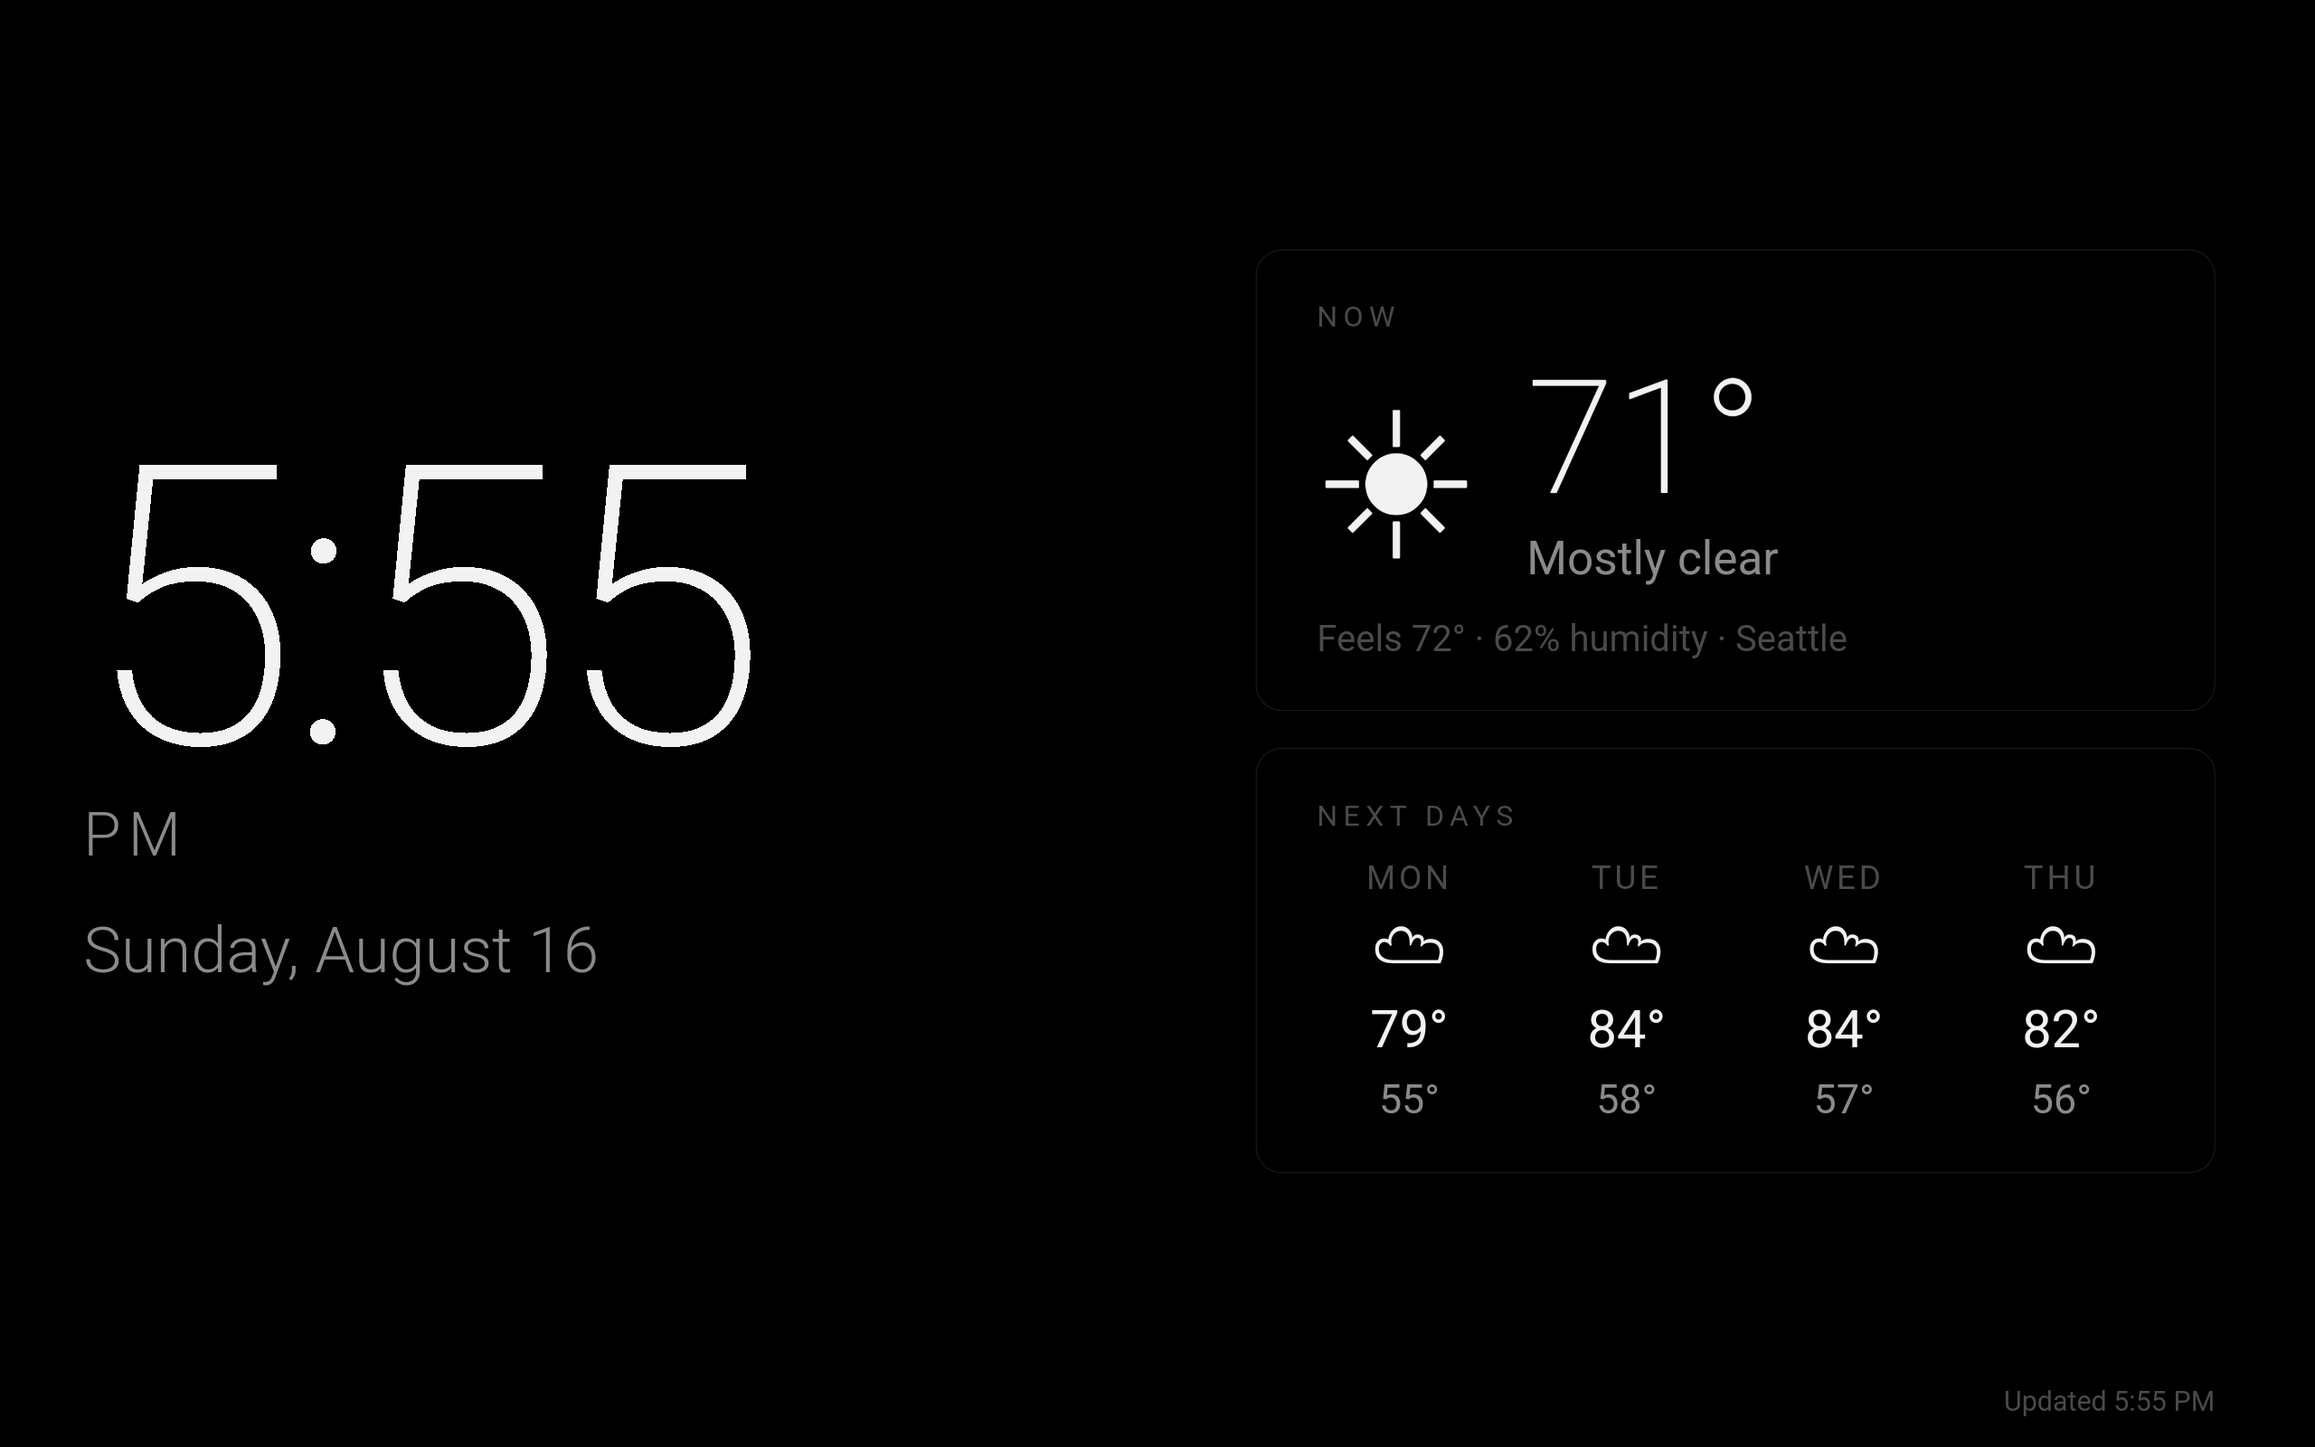
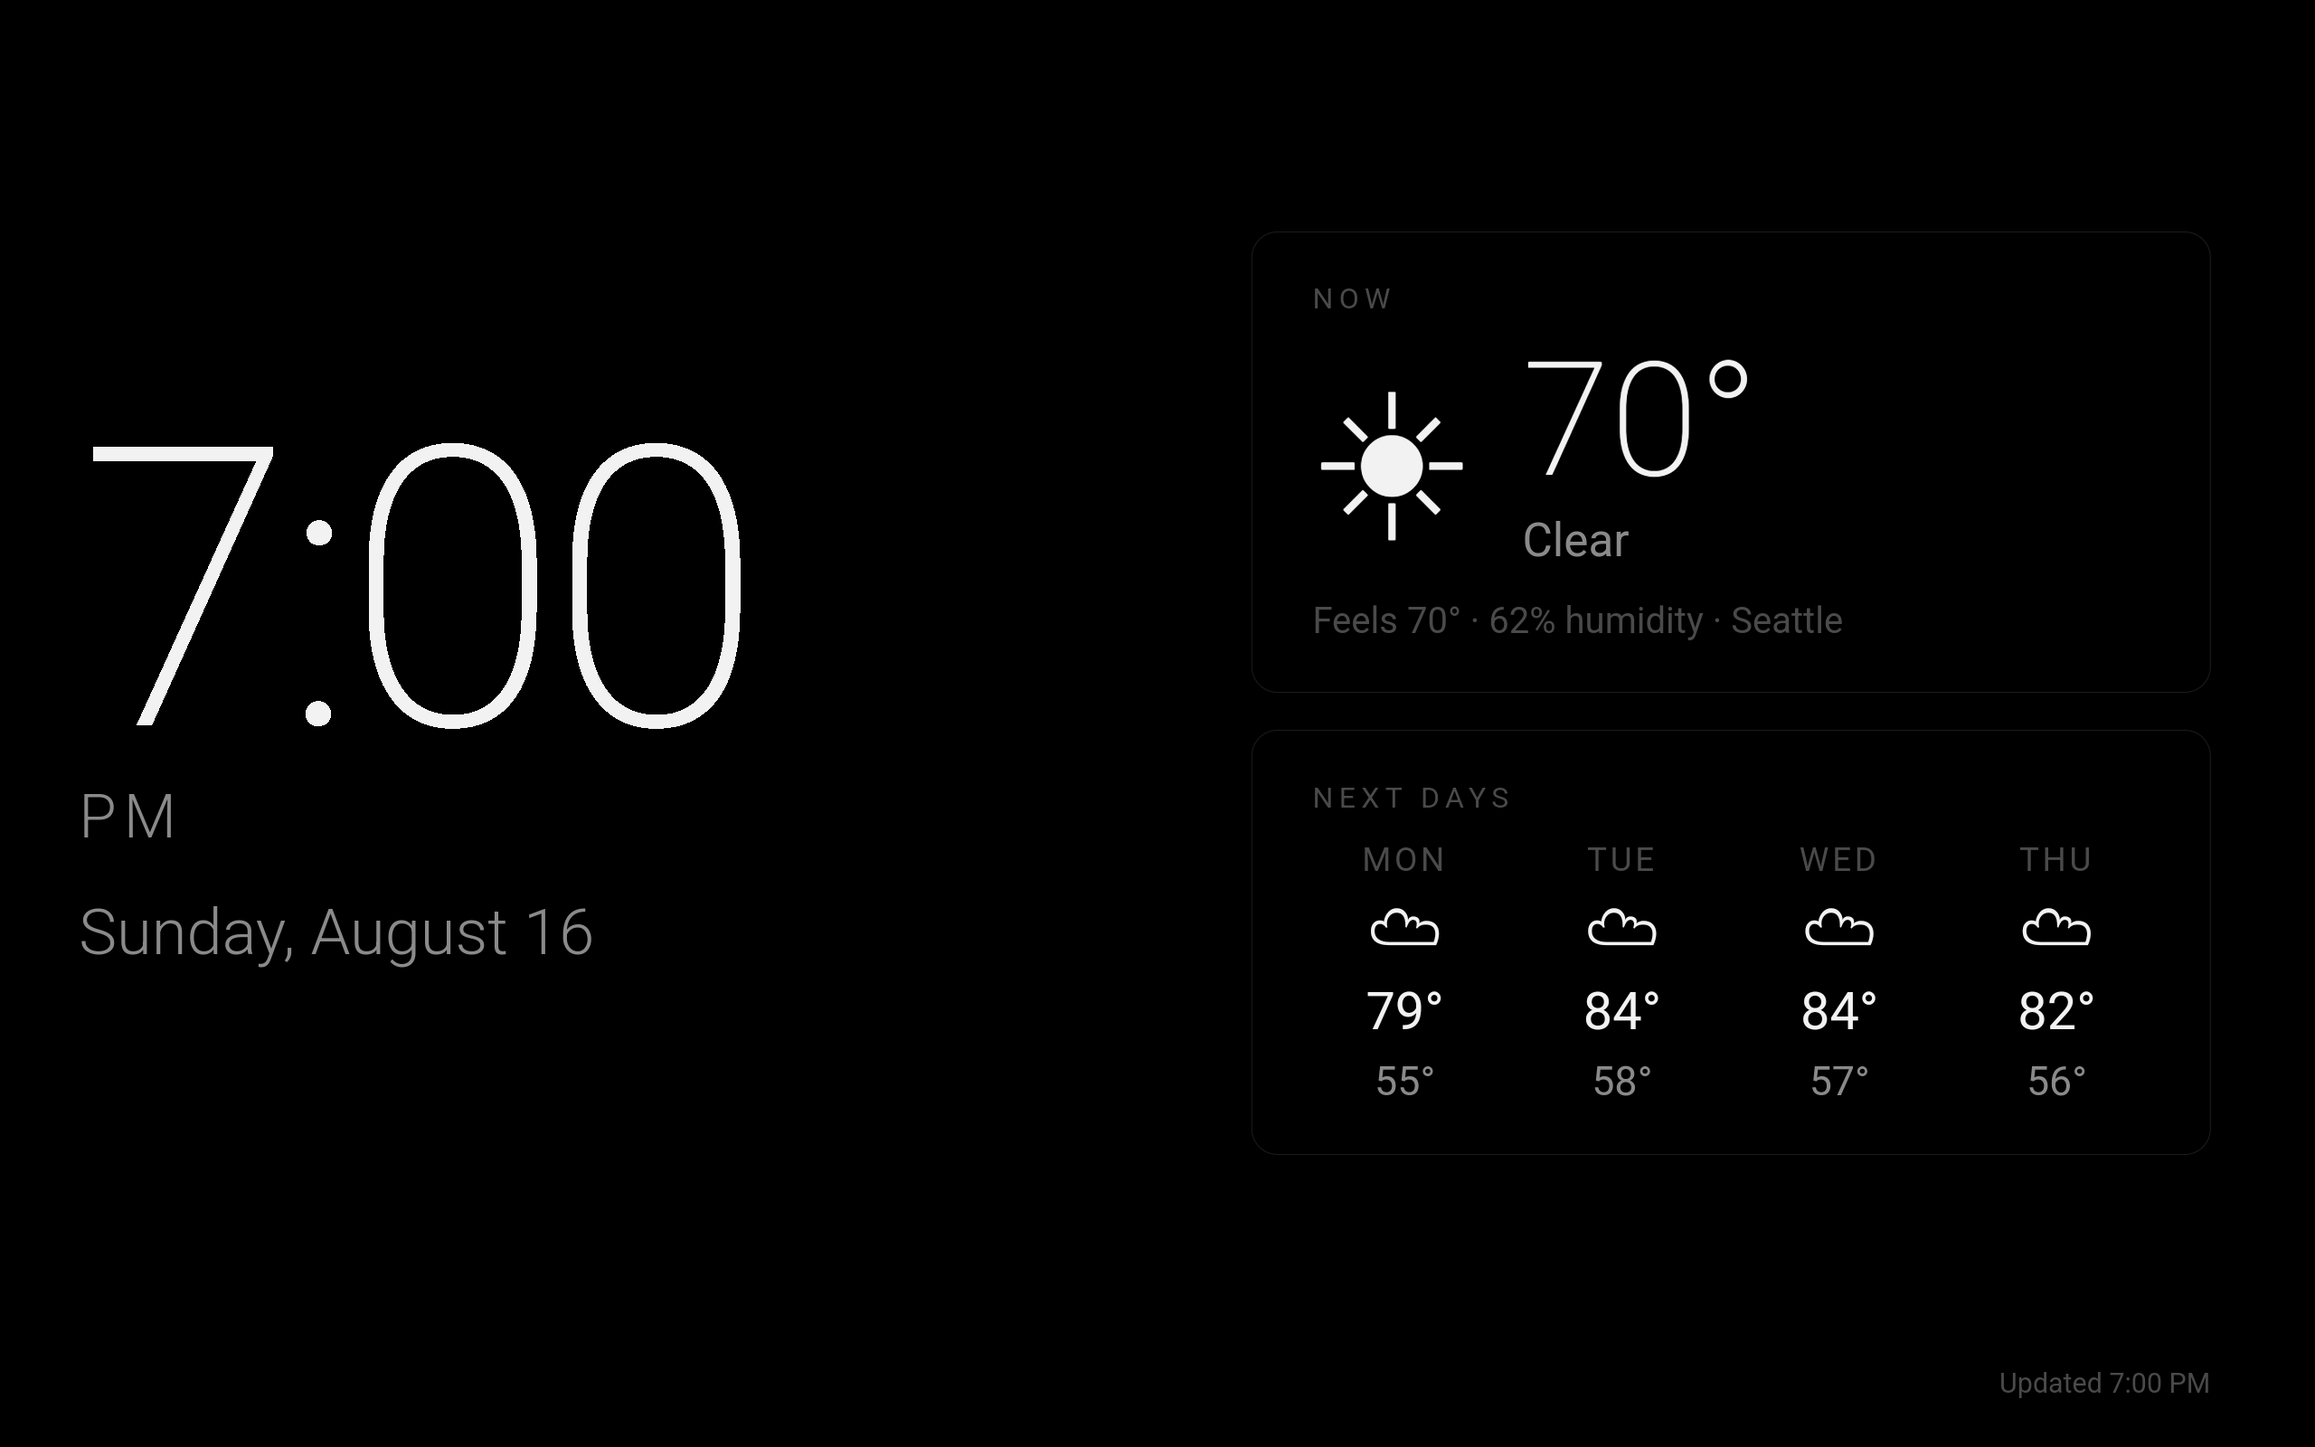
Inky OLED: Home Assistant sensors + auto-start; simplify patch D
- New "sensors" plugin reads entity states from the Home Assistant REST
  API, so the panel can show your own ESP32/MQTT room sensors instead of
  only outdoor weather. Hides itself when HA is not configured rather
  than rendering an empty card.
- BootReceiver relaunches the dashboard after a reboot. Documents the
  Android 10+ background-activity-start restriction honestly, and the
  SYSTEM_ALERT_WINDOW grant that works around it.
- Patch D reduced to an optional -Mode switch, with a README explaining
  it is usually unnecessary: the app already holds FLAG_KEEP_SCREEN_ON
  while foreground and is locked landscape, so normal sleep and rotation
  return automatically in video apps. Setting stay_on_while_plugged_in
  globally is worse - it forces the screen on inside every app, which is
  how AMOLED burn-in happens.

Verified on the 2560x1600 emulator: no regression, sensors card hidden
when disabled, boot receiver registered.

diff --git a/inky-oled/assets/app.js b/inky-oled/assets/app.js
@@ -148,6 +148,83 @@
     }
   };
 
+  /* ---------------- plugin: Home Assistant sensors ----------------
+     Reads entity states from the HA REST API, so the panel can show your own room
+     sensors (ESP32/MQTT nodes) rather than only outdoor weather. */
+  var sensorsPlugin = {
+    name: "sensors",
+    init: function () {
+      var ha = C.homeAssistant || {};
+      if (!ha.enabled) return;
+      if (!ha.baseUrl || !ha.token) {
+        $("sensors").innerHTML =
+          '<div class="sensor-empty">Set baseUrl and token in config.js</div>';
+        return;
+      }
+      this.fetchAll();
+      setInterval(this.fetchAll.bind(this), (ha.refreshSeconds || 60) * 1000);
+    },
+    fetchAll: function () {
+      var ha = C.homeAssistant;
+      var base = ha.baseUrl.replace(/\/+$/, "");
+      var list = ha.entities || [];
+      var self = this;
+
+      Promise.all(list.map(function (ent) {
+        return fetch(base + "/api/states/" + encodeURIComponent(ent.id), {
+          headers: {
+            "Authorization": "Bearer " + ha.token,
+            "Content-Type": "application/json"
+          },
+          cache: "no-store"
+        })
+          .then(function (r) {
+            if (!r.ok) throw new Error("HTTP " + r.status);
+            return r.json();
+          })
+          .then(function (j) {
+            return { ok: true, cfg: ent, state: j.state, attrs: j.attributes || {} };
+          })
+          .catch(function (e) {
+            return { ok: false, cfg: ent, err: e.message };
+          });
+      })).then(self.render.bind(self));
+    },
+    render: function (results) {
+      var box = $("sensors");
+      if (!box) return;
+      box.innerHTML = "";
+
+      var anyFail = false;
+      results.forEach(function (r) {
+        var el = document.createElement("div");
+        el.className = "sensor";
+
+        var label = r.cfg.label || r.cfg.id;
+        var value, unit = "";
+
+        if (!r.ok) {
+          anyFail = true;
+          value = "--";
+        } else if (r.state === "unavailable" || r.state === "unknown") {
+          value = "--";
+        } else {
+          var n = parseFloat(r.state);
+          value = isNaN(n) ? r.state : Math.round(n * 10) / 10;
+          unit = r.cfg.unit || r.attrs.unit_of_measurement || "";
+        }
+
+        el.innerHTML =
+          '<div class="sensor-label">' + label + "</div>" +
+          '<div class="sensor-value">' + value +
+          '<span class="sensor-unit">' + unit + "</span></div>";
+        box.appendChild(el);
+      });
+
+      if (anyFail) setStatus("Home Assistant unreachable - check baseUrl/token", true);
+    }
+  };
+
   /* ---------------- burn-in drift ----------------
      This panel is AMOLED. A dashboard that never moves will permanently ghost.
      Drift the whole layout on a slow cycle so nothing sits on the same pixels. */
@@ -169,10 +246,14 @@
   }
 
   /* ---------------- boot ---------------- */
-  var REGISTRY = { clock: clockPlugin, weather: weatherPlugin, forecast: null };
-
   function boot() {
-    var wanted = C.plugins || ["clock", "weather", "forecast"];
+    var wanted = (C.plugins || ["clock", "weather", "forecast"]).slice();
+
+    // "sensors" only makes sense with Home Assistant configured — otherwise the card
+    // would render as an empty box. Drop it rather than show nothing.
+    if (wanted.indexOf("sensors") !== -1 && !(C.homeAssistant && C.homeAssistant.enabled)) {
+      wanted.splice(wanted.indexOf("sensors"), 1);
+    }
 
     // hide any card whose plugin is not enabled
     Array.prototype.forEach.call(document.querySelectorAll("[data-plugin]"), function (node) {
@@ -182,6 +263,7 @@
     if (wanted.indexOf("clock") !== -1) clockPlugin.init();
     // forecast is rendered by the weather fetch, so it only needs the weather plugin running
     if (wanted.indexOf("weather") !== -1 || wanted.indexOf("forecast") !== -1) weatherPlugin.init();
+    if (wanted.indexOf("sensors") !== -1) sensorsPlugin.init();
 
     startBurnInDrift();
   }

diff --git a/inky-oled/assets/config.js b/inky-oled/assets/config.js
@@ -24,7 +24,30 @@ window.CONFIG = {
 
   // ---- PLUGINS --------------------------------------------
   // Turn cards on/off. Order here is the order they render.
+  // Add "sensors" once Home Assistant is configured below.
   plugins: ["clock", "weather", "forecast"],
+
+  // ---- HOME ASSISTANT (optional) --------------------------
+  // Shows your own sensors — e.g. the ESP32 room nodes — instead of only outdoor weather.
+  //
+  // token: create a Long-Lived Access Token in HA under
+  //        Profile -> Security -> Long-Lived Access Tokens.
+  //
+  // !! The token grants full API access to your Home Assistant. It is stored in plain
+  //    text inside the APK. Only sideload this build onto your own device, and never
+  //    commit a real token — the repo's pre-commit scanner will block it anyway.
+  homeAssistant: {
+    enabled: false,
+    baseUrl: "http://homeassistant.local:8123",  // or http://<ha-ip>:8123
+    token: "",                                    // paste your long-lived token
+    refreshSeconds: 60,
+    // Each entry becomes a tile. Find entity ids in HA under Developer Tools -> States.
+    entities: [
+      { id: "sensor.living_room_temperature", label: "Living room", unit: "°F" },
+      { id: "sensor.bedroom_temperature",     label: "Bedroom",     unit: "°F" },
+      { id: "sensor.outside_temperature",     label: "Outside",     unit: "°F" },
+    ],
+  },
 
   // ---- REFRESH --------------------------------------------
   weatherRefreshMinutes: 15,

diff --git a/inky-oled/assets/style.css b/inky-oled/assets/style.css
@@ -124,6 +124,30 @@ html, body {
 .fc-hi   { font-size: 3.6vh; font-variant-numeric: tabular-nums; }
 .fc-lo   { font-size: 2.8vh; color: var(--dim); font-variant-numeric: tabular-nums; }
 
+/* ---------- Home Assistant sensors ---------- */
+.card-sensors { grid-column: 1 / -1; }
+.sensors { display: flex; gap: 2vw; justify-content: flex-start; flex-wrap: wrap; }
+.sensor {
+  display: flex;
+  flex-direction: column;
+  gap: 0.6vh;
+  min-width: 12vw;
+}
+.sensor-label {
+  font-size: 2.1vh;
+  color: var(--dimmer);
+  text-transform: uppercase;
+  letter-spacing: 0.08em;
+}
+.sensor-value {
+  font-size: 5.4vh;
+  font-weight: 200;
+  line-height: 1;
+  font-variant-numeric: tabular-nums;
+}
+.sensor-unit { font-size: 2.6vh; color: var(--dim); margin-left: 0.3vw; }
+.sensor-empty { font-size: 2.2vh; color: var(--dimmer); }
+
 /* ---------- status / errors ---------- */
 .status {
   font-size: 1.9vh;

diff --git a/inky-oled/assets/index.html b/inky-oled/assets/index.html
@@ -36,6 +36,11 @@
         <div id="forecast" class="forecast"></div>
       </section>
 
+      <section class="card card-sensors" data-plugin="sensors">
+        <div class="card-label">Home</div>
+        <div id="sensors" class="sensors"></div>
+      </section>
+
     </main>
 
     <footer id="status" class="status"></footer>

diff --git a/inky-oled/src/com/justin/inkyoled/BootReceiver.java b/inky-oled/src/com/justin/inkyoled/BootReceiver.java
@@ -1,0 +1,49 @@
+package com.justin.inkyoled;
+
+import android.content.BroadcastReceiver;
+import android.content.Context;
+import android.content.Intent;
+import android.util.Log;
+
+/**
+ * Relaunches the dashboard after a reboot or power cut.
+ *
+ * IMPORTANT CAVEAT: since Android 10, apps cannot start activities from the background.
+ * This receiver fires, but the activity launch may be silently dropped unless the app has
+ * been granted "Display over other apps" (SYSTEM_ALERT_WINDOW), which exempts it.
+ *
+ * Grant it with:
+ *     adb shell appops set com.justin.inkyoled SYSTEM_ALERT_WINDOW allow
+ * or via Settings > Apps > Inky OLED > Display over other apps.
+ *
+ * Alternative that always works: set this app as the HOME launcher. Not recommended here,
+ * because the tablet is also used as a normal handheld video player and a launcher with no
+ * app drawer gets in the way.
+ */
+public class BootReceiver extends BroadcastReceiver {
+
+    private static final String TAG = "InkyOLED";
+
+    @Override
+    public void onReceive(Context context, Intent intent) {
+        String action = intent.getAction();
+        if (action == null) return;
+
+        if (Intent.ACTION_BOOT_COMPLETED.equals(action)
+                || Intent.ACTION_LOCKED_BOOT_COMPLETED.equals(action)
+                || "android.intent.action.QUICKBOOT_POWERON".equals(action)) {
+
+            try {
+                Intent launch = new Intent(context, MainActivity.class);
+                launch.addFlags(Intent.FLAG_ACTIVITY_NEW_TASK);
+                context.startActivity(launch);
+                Log.i(TAG, "BootReceiver: dashboard launch requested");
+            } catch (Exception e) {
+                // Expected if background activity starts are blocked and the overlay
+                // permission has not been granted. Log rather than crash.
+                Log.w(TAG, "BootReceiver: could not start activity - "
+                        + "grant SYSTEM_ALERT_WINDOW to allow background launch", e);
+            }
+        }
+    }
+}

diff --git a/inky-oled/README.md b/inky-oled/README.md
@@ -50,8 +50,58 @@ No Gradle, no Maven, no network. Builds in seconds. Output ~17 KB.
 - **Clock** — large time, AM/PM, full date
 - **Now** — temperature, conditions, feels-like, humidity, location
 - **Next days** — 4-day forecast with highs/lows
+- **Home** *(optional)* — your own Home Assistant sensors
 
 Weather comes from **Open-Meteo — no API key, no account.**
+
+## Home Assistant sensors (optional)
+
+Shows your own room sensors — e.g. ESP32/MQTT nodes — instead of only outdoor weather.
+
+In `assets/config.js`:
+
+```js
+homeAssistant: {
+  enabled: true,
+  baseUrl: "http://homeassistant.local:8123",
+  token: "<long-lived access token>",
+  entities: [
+    { id: "sensor.living_room_temperature", label: "Living room", unit: "°F" },
+  ],
+},
+```
+
+Then add `"sensors"` to `plugins`. Create the token in HA under
+**Profile → Security → Long-Lived Access Tokens**; entity ids are under
+**Developer Tools → States**.
+
+If Home Assistant is not enabled, the card hides itself rather than rendering an empty box.
+
+> **The token grants full API access to your Home Assistant** and is stored in plain text inside
+> the APK. Only sideload this build onto your own device, and never commit a real token — the
+> repo's pre-commit scanner blocks it.
+
+## Auto-start after reboot
+
+A `BootReceiver` relaunches the dashboard on `BOOT_COMPLETED`.
+
+**Caveat that matters:** since Android 10, apps cannot start activities from the background, so
+this is silently dropped unless the app is exempt. Grant the exemption with:
+
+```bash
+adb shell appops set com.justin.inkyoled SYSTEM_ALERT_WINDOW allow
+```
+
+(or Settings → Apps → Inky OLED → Display over other apps).
+
+The always-works alternative is making this the HOME launcher — deliberately not done here, since
+the tablet is also a handheld video player and a launcher with no app drawer gets in the way.
+
+## Screen-on behaviour
+
+The app holds `FLAG_KEEP_SCREEN_ON` while in the foreground and is locked landscape. So the screen
+stays on while the dashboard shows, and normal sleep/rotation return the moment you switch to
+another app. **No global settings needed** — see `patches/D-kiosk-settings/README.md`.
 
 ## Kiosk behaviour
 

diff --git a/patches/D-kiosk-settings/README.md b/patches/D-kiosk-settings/README.md
@@ -1,0 +1,43 @@
+# Patch D — usage mode (panel vs tablet)
+
+```bash
+powershell -File apply.ps1 -Mode panel      # mounted dashboard
+powershell -File apply.ps1 -Mode tablet     # handheld video player
+powershell -File revert.ps1                 # restore pre-patch values
+```
+
+No root. Values live in `/data`, so they survive GSI updates. `apply.ps1` backs up the original
+values to `backup.json` on first run, so `revert.ps1` restores what was actually there.
+
+## You may not need this at all
+
+**Inky OLED already handles the important half.** The app holds `FLAG_KEEP_SCREEN_ON` while it is
+in the foreground and is locked to landscape in its manifest. So:
+
+- Dashboard showing → screen stays on, landscape
+- Switch to a video app → normal sleep timeout and free rotation return automatically
+
+That is the behaviour you want from a device doing both jobs, and it needs **no global settings**.
+
+Setting `stay_on_while_plugged_in` globally is actively worse: it forces the screen on inside
+*every* app, including video, and on an AMOLED that is exactly how you get burn-in.
+
+**Recommendation: skip this patch unless you have a specific reason.** It exists for the case where
+you want panel behaviour from something other than Inky OLED.
+
+## What each mode sets
+
+| Setting | `panel` | `tablet` |
+|---|---|---|
+| `stay_on_while_plugged_in` | `3` (AC\|USB) | `0` |
+| `screen_off_timeout` | 30 min | 10 min |
+| `accelerometer_rotation` | `0` (locked) | `1` (free) |
+| `user_rotation` | `1` (90°) | untouched |
+| `screensaver_enabled` | `0` | `0` |
+
+Change `user_rotation` to match how the tablet is physically mounted: `0`=0° `1`=90° `2`=180° `3`=270°.
+
+## Related
+
+- Patch I — burn-in. Directly at odds with permanent stay-awake; read both.
+- Patch J — video playback. Rotation lock should be **off** if the tablet gets picked up.
